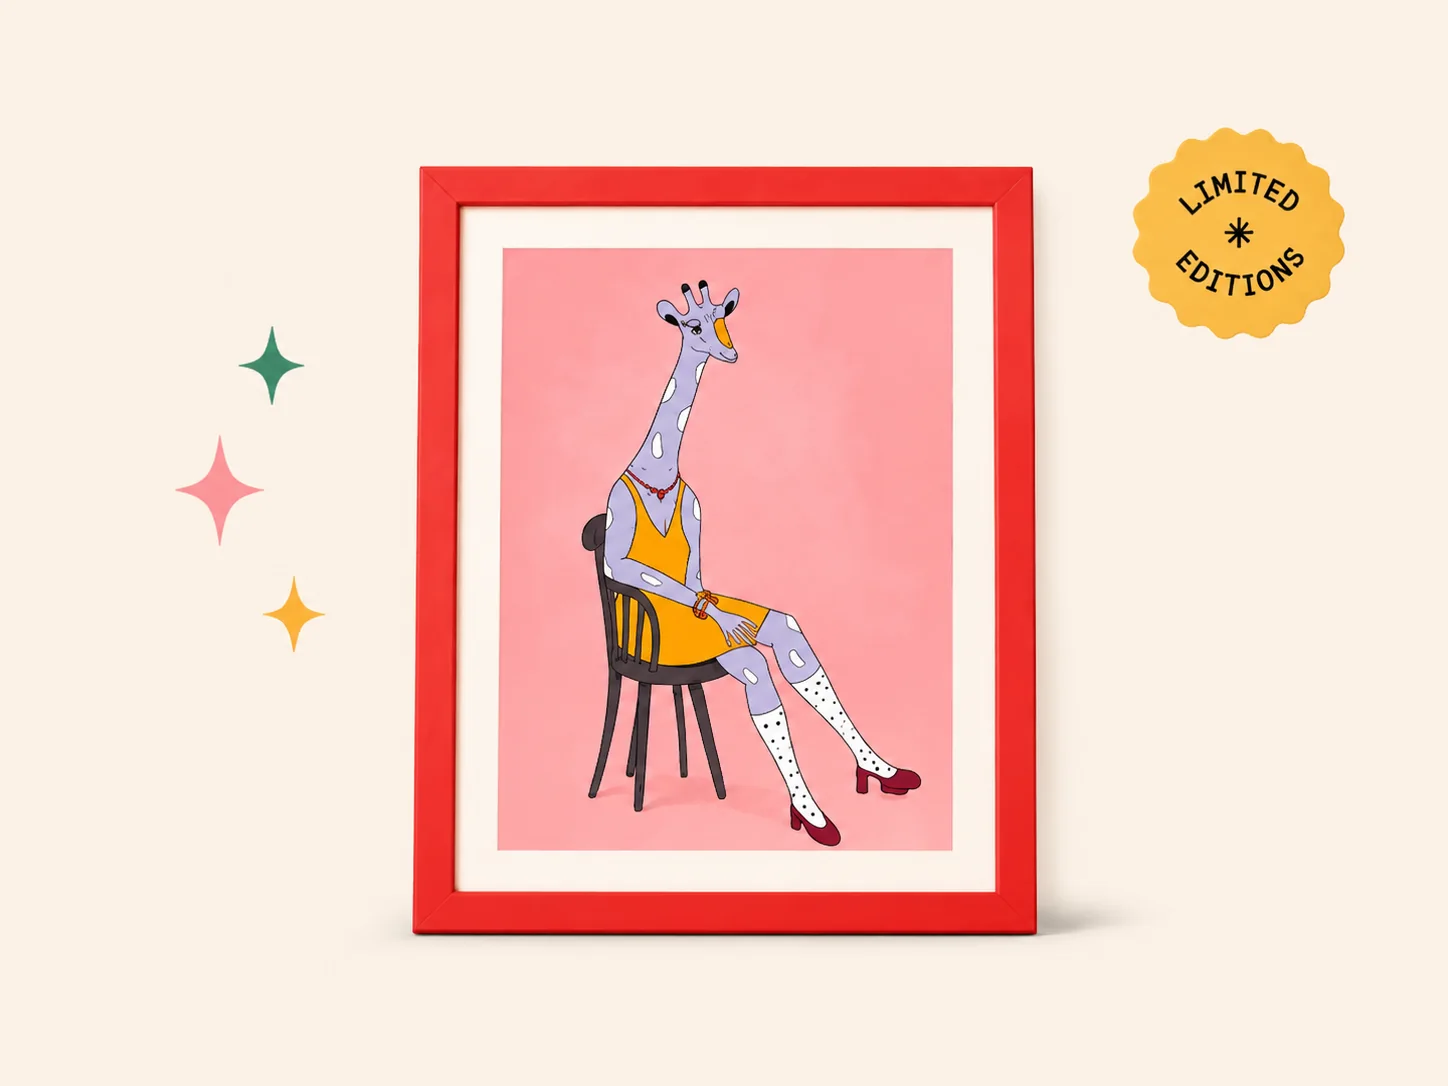
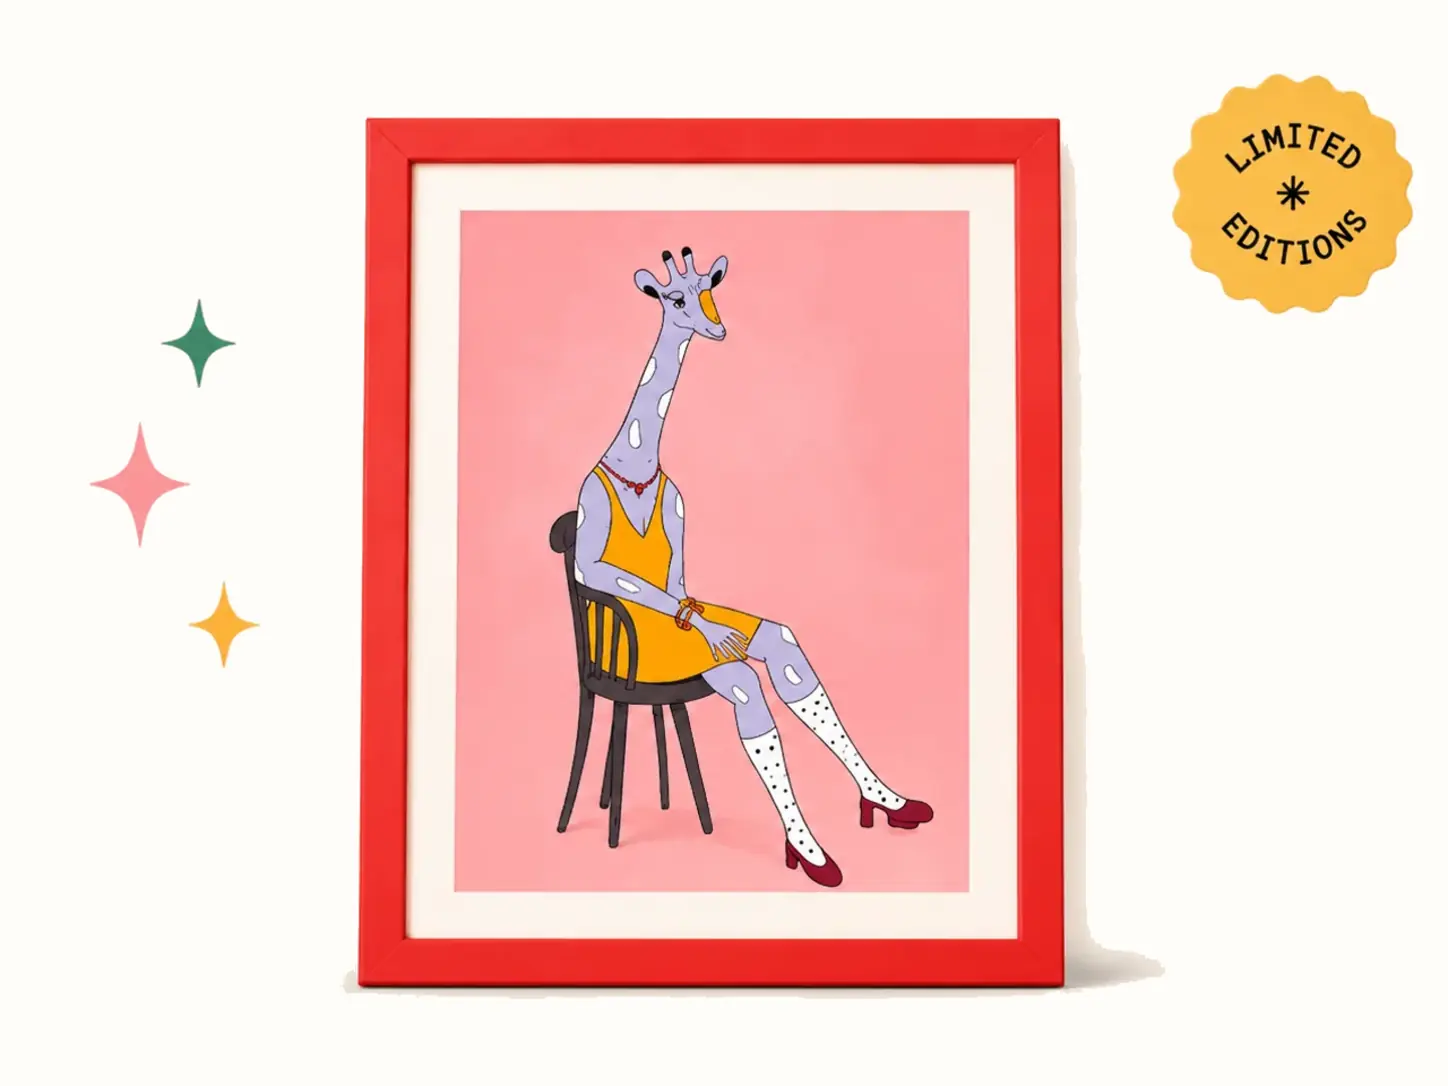
Refine homepage hero artwork treatment

diff --git a/assets/friday-hero-viewport-cap.css b/assets/friday-hero-viewport-cap.css
@@ -31,7 +31,9 @@
   }
 
   body:has(.fp-hero) .fp-hero__scene img{
-    max-height:min(510px, calc(100svh - 190px))!important;
+    /* The hero asset is tightly art-directed, so let the framed print carry
+       more visual weight without making the overall hero taller. */
+    max-height:min(530px, calc(100svh - 176px))!important;
     max-width:100%!important;
     width:auto!important;
   }
@@ -62,7 +64,7 @@
     max-height:510px!important;
   }
   body:has(.fp-hero) .fp-hero__scene img{
-    max-height:calc(100svh - 165px)!important;
+    max-height:calc(100svh - 158px)!important;
   }
   body:has(.fp-hero) .fp-hero h1{
     font-size:clamp(56px,8.7svh,76px)!important;
